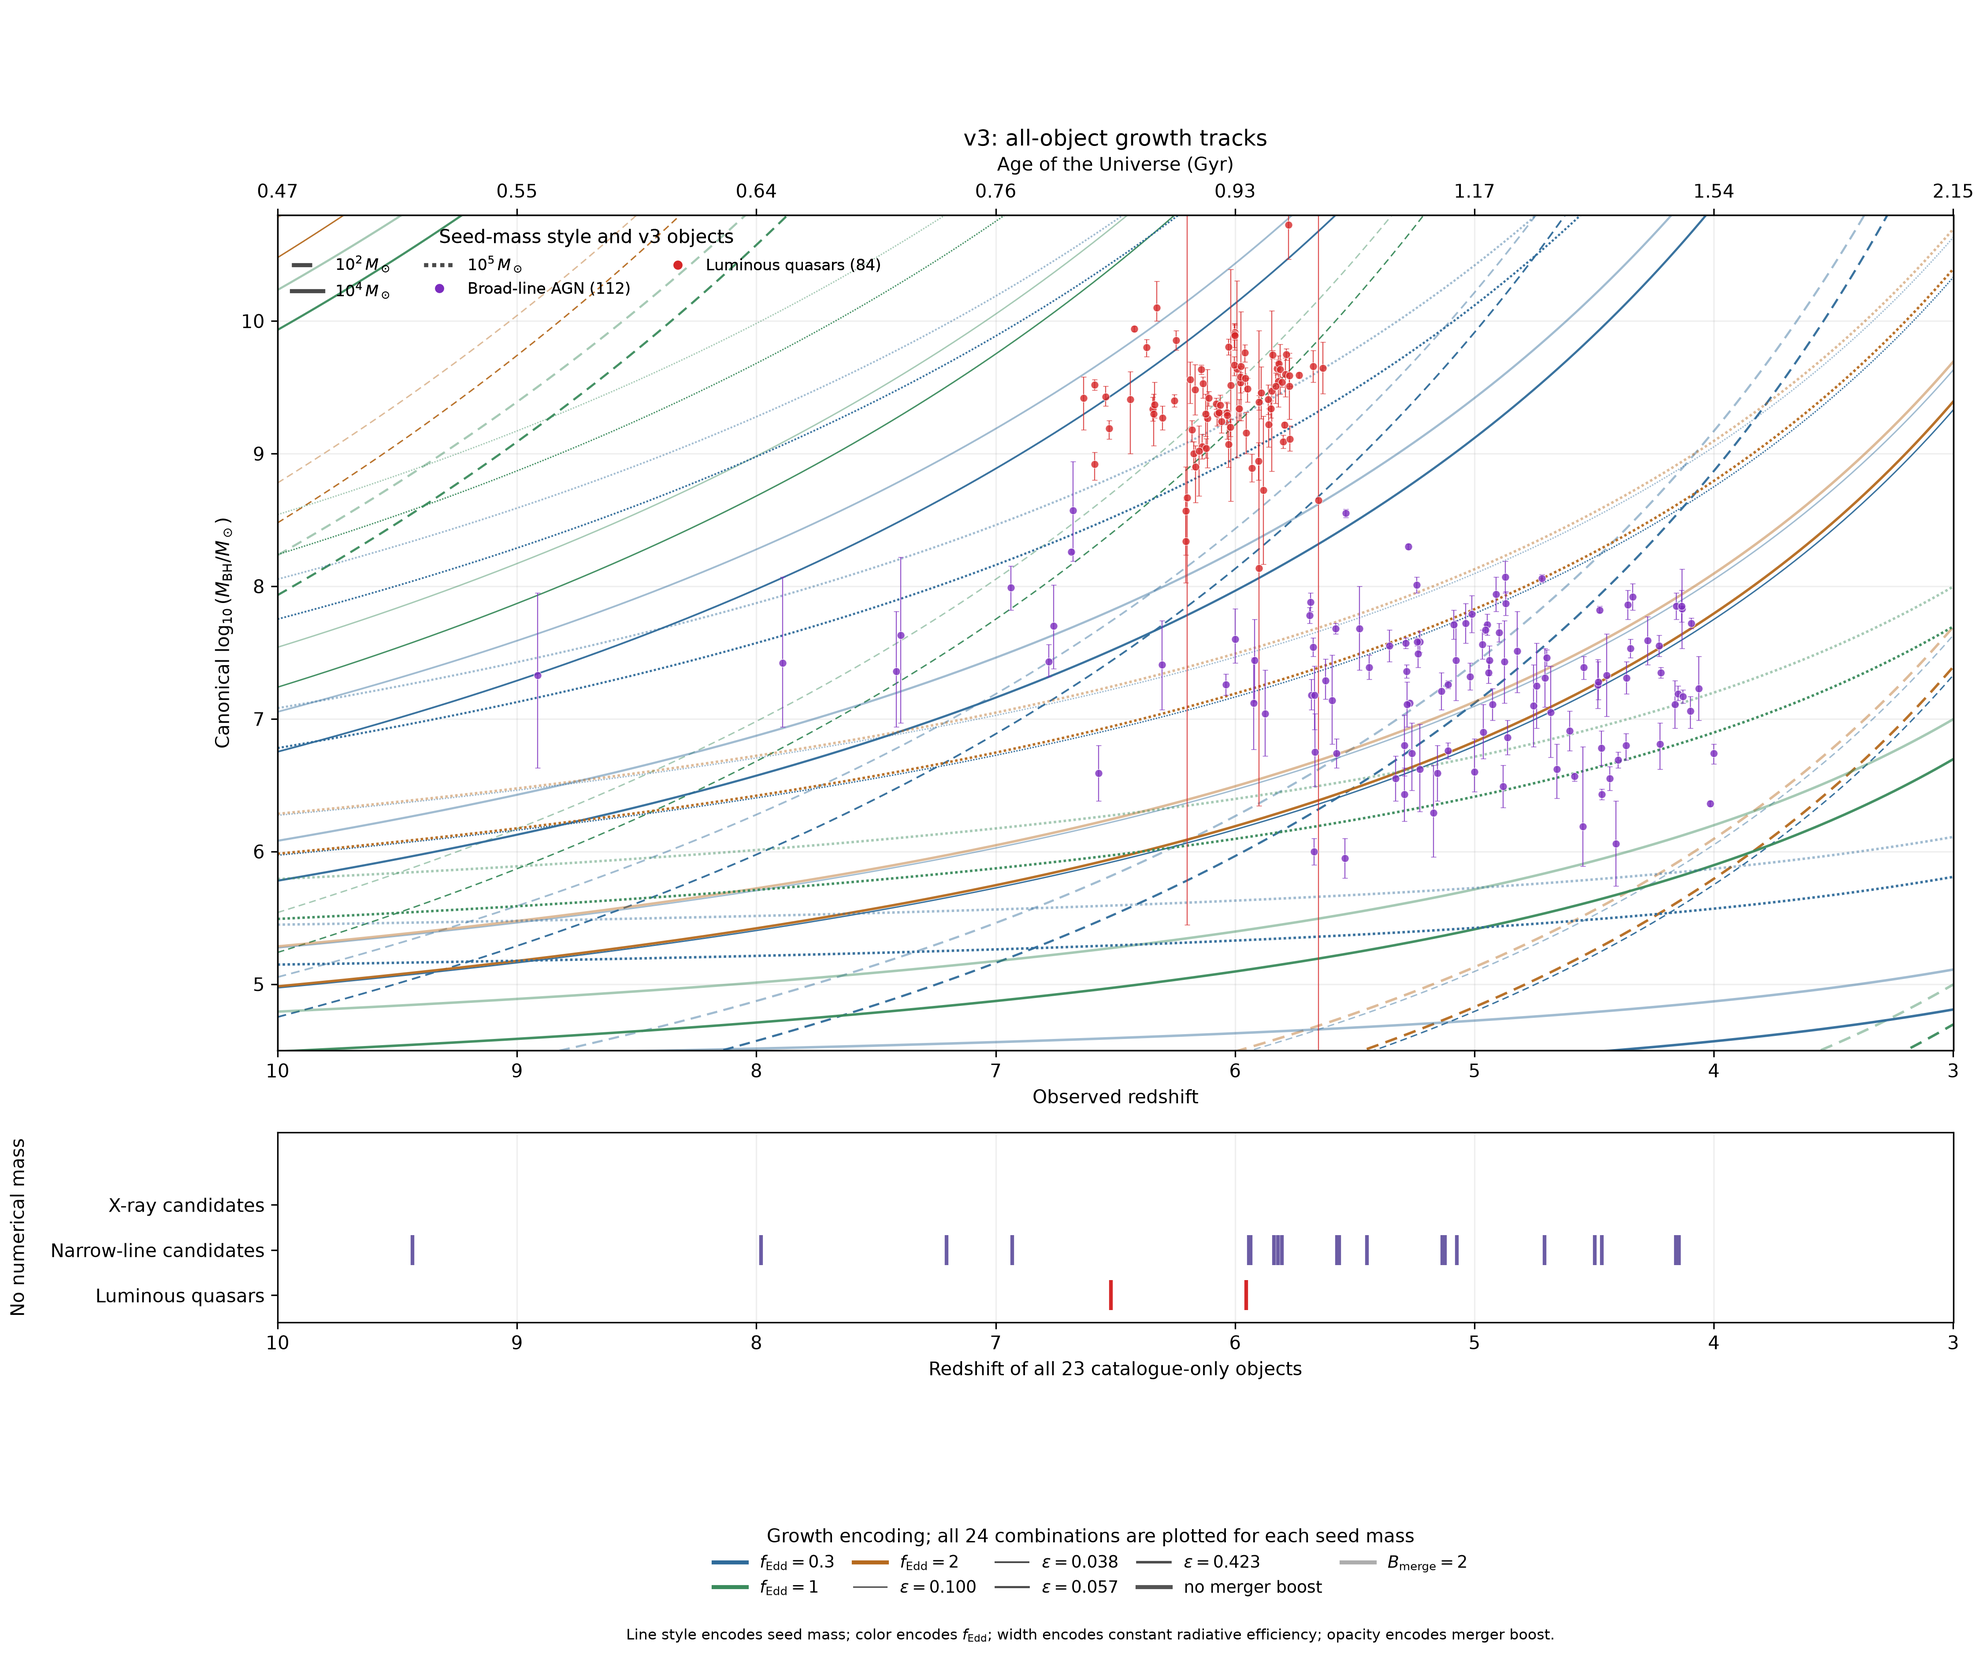
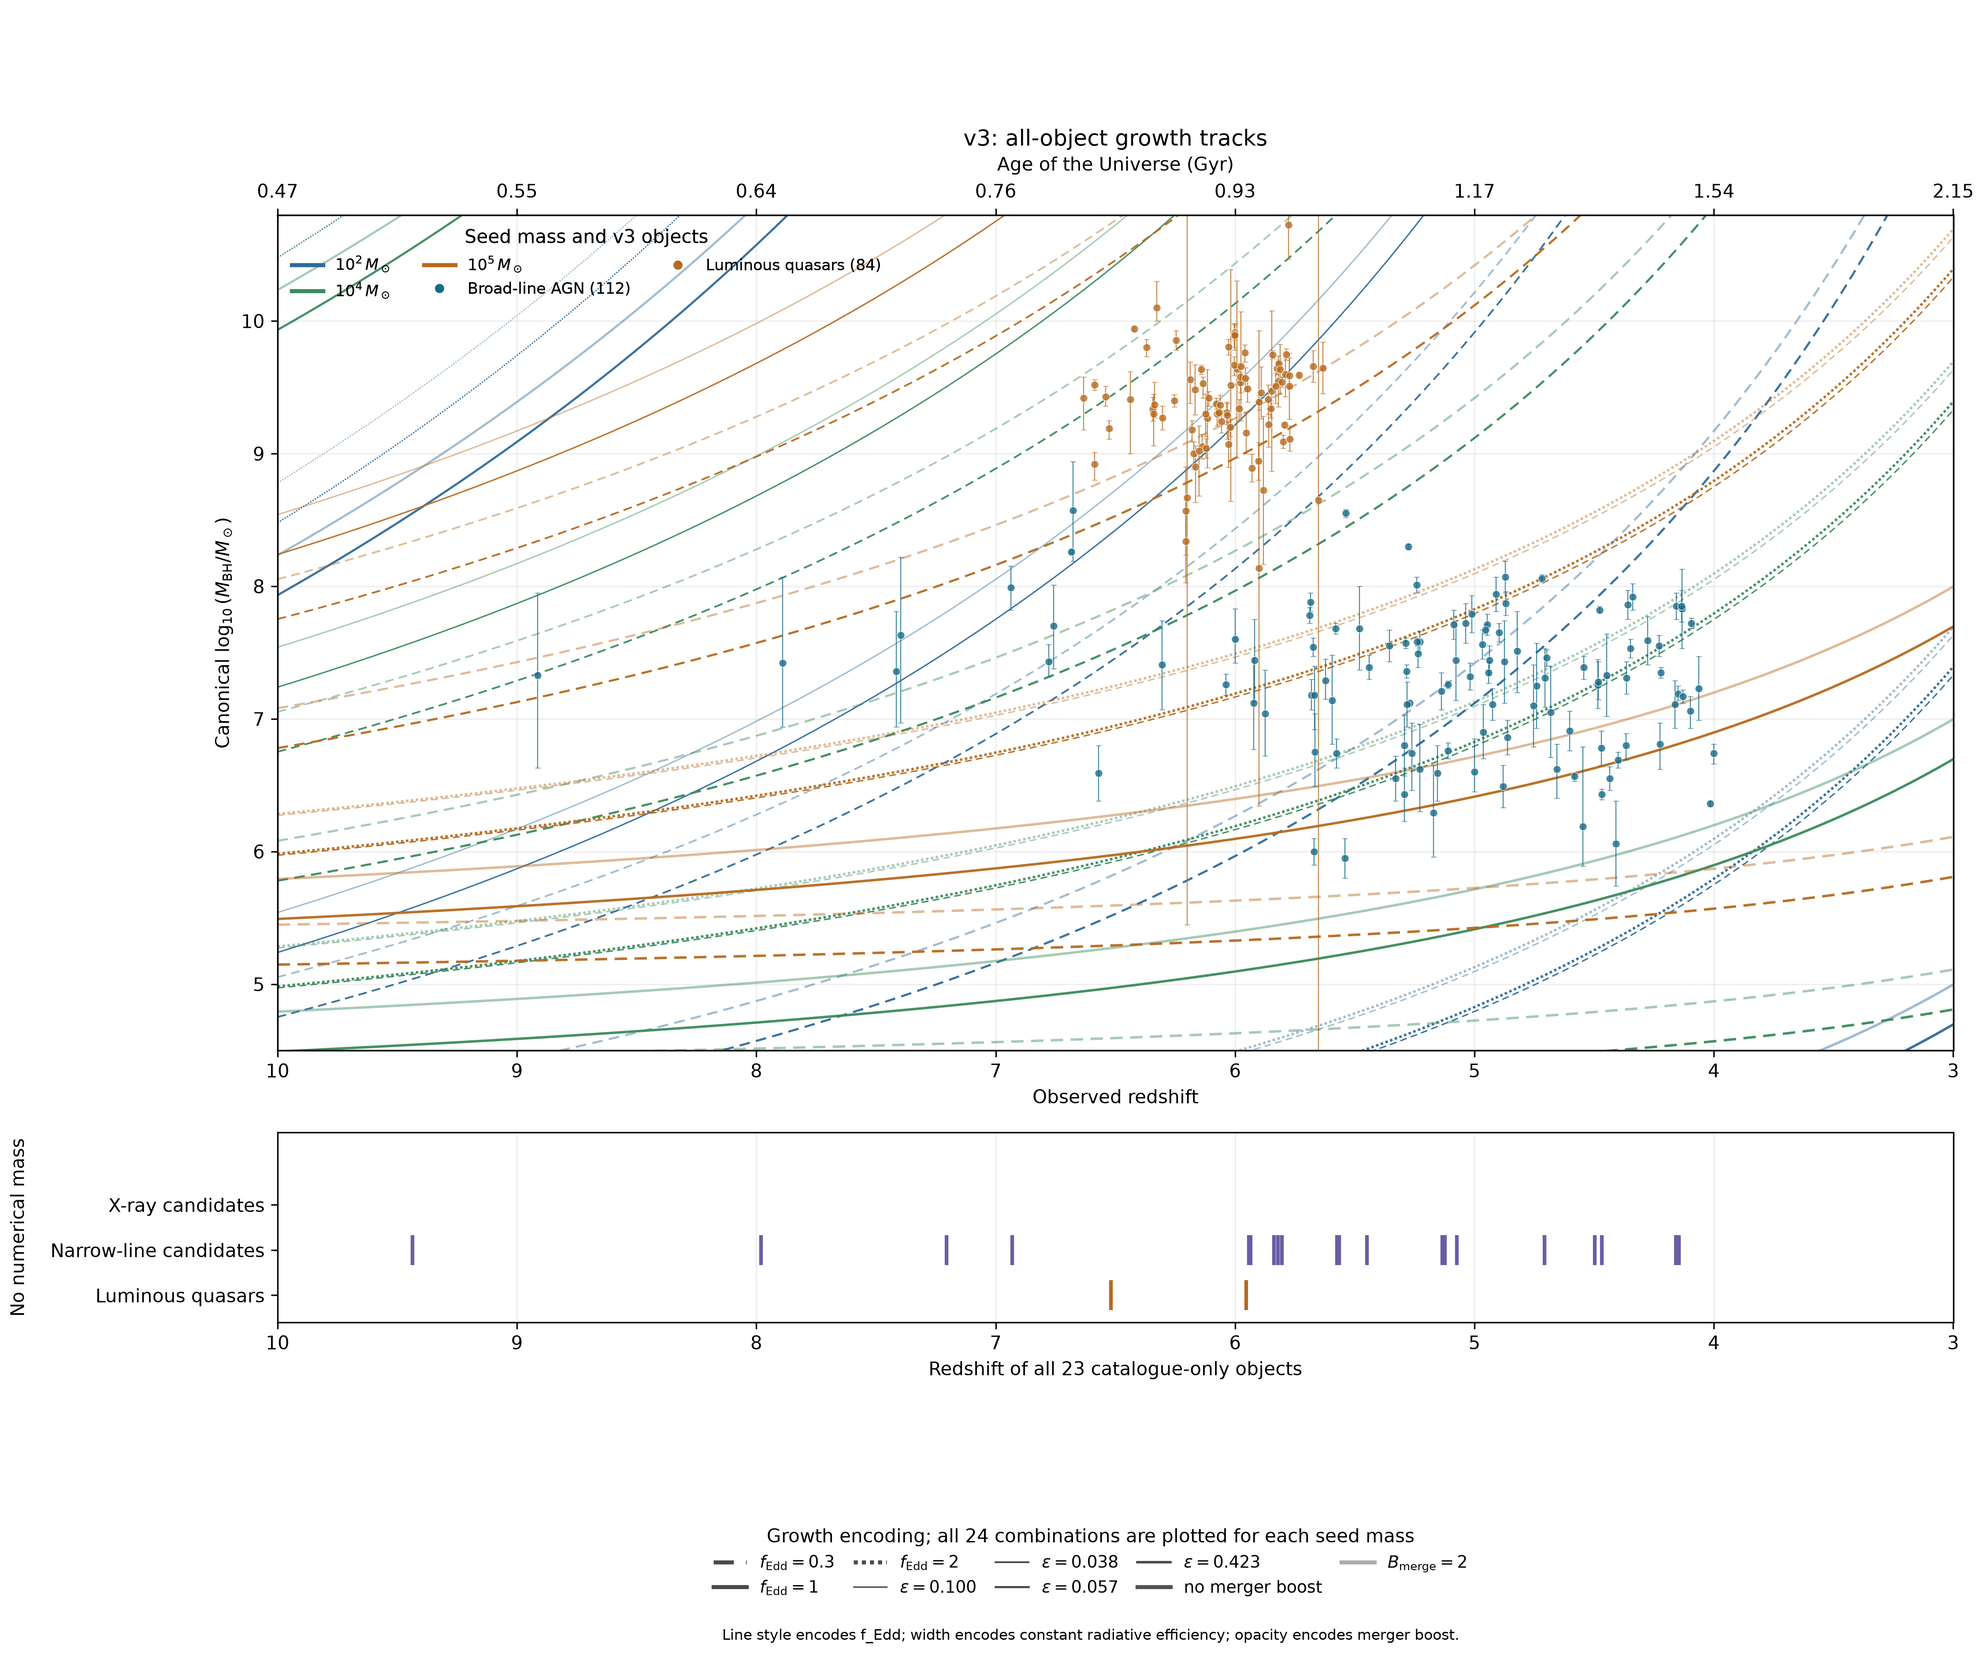
restore pre-contrast full-assumption tracks

diff --git a/src/internal/atlas.py b/src/internal/atlas.py
@@ -94,15 +94,15 @@ SEED_LABELS = {
     "pbh_origin_hypothesis": "PBH-origin hypothesis\n(assumed $10^2$–$10^6\\,M_\\odot$)",
 }
 
-FULL_TRACK_SEED_STYLES = (
-    (2.0, r"$10^2\,M_\odot$", (0, (5, 3))),
-    (4.0, r"$10^4\,M_\odot$", "-"),
-    (5.0, r"$10^5\,M_\odot$", (0, (1, 1))),
+FULL_TRACK_SEEDS = (
+    (2.0, r"$10^2\,M_\odot$", "#2F6B9A"),
+    (4.0, r"$10^4\,M_\odot$", "#3A8B5C"),
+    (5.0, r"$10^5\,M_\odot$", "#B66A1E"),
 )
-FULL_TRACK_FEDD_COLORS = (
-    (0.3, "#2F6B9A"),
-    (1.0, "#3A8B5C"),
-    (2.0, "#B66A1E"),
+FULL_TRACK_FEDD_STYLES = (
+    (0.3, (0, (5, 3))),
+    (1.0, "-"),
+    (2.0, (0, (1, 1))),
 )
 FULL_TRACK_EPSILON_CASES = (
     (0.1, r"$\epsilon=0.100$", 0.75),
@@ -115,8 +115,8 @@ FULL_TRACK_MERGER_CASES = (
     (2.0, r"$B_{\rm merge}=2$", 0.45),
 )
 FULL_TRACK_CURVE_COUNT = (
-    len(FULL_TRACK_SEED_STYLES)
-    * len(FULL_TRACK_FEDD_COLORS)
+    len(FULL_TRACK_SEEDS)
+    * len(FULL_TRACK_FEDD_STYLES)
     * len(FULL_TRACK_EPSILON_CASES)
     * len(FULL_TRACK_MERGER_CASES)
 )
@@ -290,8 +290,8 @@ def plot_full_assumption_growth_tracks(
     )
     fig.subplots_adjust(left=0.14, right=0.985, bottom=0.20, top=0.87, hspace=0.16)
 
-    for log_seed, _, linestyle in FULL_TRACK_SEED_STYLES:
-        for fedd, color in FULL_TRACK_FEDD_COLORS:
+    for log_seed, _, color in FULL_TRACK_SEEDS:
+        for fedd, linestyle in FULL_TRACK_FEDD_STYLES:
             for epsilon, _, linewidth in FULL_TRACK_EPSILON_CASES:
                 for boost, _, alpha in FULL_TRACK_MERGER_CASES:
                     ax.plot(
@@ -308,8 +308,8 @@ def plot_full_assumption_growth_tracks(
         ])
         ax.errorbar(
             group["redshift"], group["log_mbh_msun_std"], yerr=yerr, fmt="o",
-            ms=4.2, mfc=GROWTH_TRACK_COLORS[object_class], mec="white", mew=0.35,
-            ecolor=GROWTH_TRACK_COLORS[object_class], elinewidth=0.55, capsize=1.4, alpha=0.8,
+            ms=4.2, mfc=COLORS[object_class], mec="white", mew=0.35,
+            ecolor=COLORS[object_class], elinewidth=0.55, capsize=1.4, alpha=0.8,
         )
 
     title = f"{VERSION}: all-object growth tracks"
@@ -329,24 +329,24 @@ def plot_full_assumption_growth_tracks(
     age_axis.set_xticklabels([f"{age:.2f}" for age in cosmic_time_gyr(age_redshifts)])
     age_axis.set_xlabel("Age of the Universe (Gyr)", labelpad=7)
 
-    seed_handles = [Line2D([0], [0], color="#4A4A4A", lw=2.2, ls=linestyle, label=label)
-                    for _, label, linestyle in FULL_TRACK_SEED_STYLES]
+    seed_handles = [Line2D([0], [0], color=color, lw=2.2, label=label)
+                    for _, label, color in FULL_TRACK_SEEDS]
     class_handles = [
-        Line2D([0], [0], marker="o", color="none", markerfacecolor=GROWTH_TRACK_COLORS[key],
+        Line2D([0], [0], marker="o", color="none", markerfacecolor=COLORS[key],
                markeredgecolor="white", markersize=6,
                label=f"{LABELS[key]} ({len(group)})")
         for key, group in eligible.groupby("object_class")
     ]
     object_legend = ax.legend(
-        handles=seed_handles + class_handles, title="Seed-mass style and v3 objects",
+        handles=seed_handles + class_handles, title="Seed mass and v3 objects",
         loc="upper left", ncols=3, frameon=False, fontsize=8.5,
     )
     ax.add_artist(object_legend)
 
     encoding_handles = [
-        Line2D([0], [0], color=color, lw=2.2,
+        Line2D([0], [0], color="#4A4A4A", lw=2.2, ls=linestyle,
                label=rf"$f_{{\rm Edd}}={fedd:g}$")
-        for fedd, color in FULL_TRACK_FEDD_COLORS
+        for fedd, linestyle in FULL_TRACK_FEDD_STYLES
     ] + [
         Line2D([0], [0], color="#4A4A4A", lw=linewidth, label=label)
         for _, label, linewidth in FULL_TRACK_EPSILON_CASES
@@ -359,7 +359,7 @@ def plot_full_assumption_growth_tracks(
     status.set_ylim(-0.6, 3.6)
     for y, (object_class, group) in enumerate(unavailable.groupby("object_class", sort=True)):
         status.scatter(group["redshift"], np.full(len(group), y), marker="|", s=260,
-                       linewidths=2, color=GROWTH_TRACK_COLORS[object_class])
+                       linewidths=2, color=COLORS[object_class])
     classes = list(unavailable.groupby("object_class", sort=True).groups)
     status.set_yticks(range(len(classes)), [LABELS[key] for key in classes])
     status.set_ylabel("No numerical mass", labelpad=12)
@@ -374,8 +374,7 @@ def plot_full_assumption_growth_tracks(
     )
     fig.text(
         0.55, 0.008,
-        r"Line style encodes seed mass; color encodes $f_{\rm Edd}$; "
-        "width encodes constant radiative efficiency; "
+        "Line style encodes f_Edd; width encodes constant radiative efficiency; "
         "opacity encodes merger boost.",
         ha="center", fontsize=8,
     )

diff --git a/tests/test_scientific_claims.py b/tests/test_scientific_claims.py
@@ -10,9 +10,9 @@ import pandas as pd
 from src.internal.atlas import (
     FULL_TRACK_CURVE_COUNT,
     FULL_TRACK_EPSILON_CASES,
-    FULL_TRACK_FEDD_COLORS,
+    FULL_TRACK_FEDD_STYLES,
     FULL_TRACK_MERGER_CASES,
-    FULL_TRACK_SEED_STYLES,
+    FULL_TRACK_SEEDS,
     GROWTH_TRACK_AGE_TICKS,
     GROWTH_TRACK_COLORS,
     GROWTH_TRACK_REDSHIFT_LIMITS,
@@ -33,15 +33,12 @@ TABLES = ROOT / "results/v3/tables"
 
 class V3ScientificClaimTests(unittest.TestCase):
     def test_full_growth_track_assumption_grid_matches_historical_v1(self) -> None:
-        self.assertEqual(len(FULL_TRACK_SEED_STYLES), 3)
-        self.assertEqual([item[0] for item in FULL_TRACK_FEDD_COLORS], [0.3, 1.0, 2.0])
+        self.assertEqual(len(FULL_TRACK_SEEDS), 3)
+        self.assertEqual([item[0] for item in FULL_TRACK_FEDD_STYLES], [0.3, 1.0, 2.0])
+        self.assertEqual([item[2] for item in FULL_TRACK_SEEDS], ["#2F6B9A", "#3A8B5C", "#B66A1E"])
         self.assertEqual(
-            [item[2] for item in FULL_TRACK_SEED_STYLES],
+            [item[1] for item in FULL_TRACK_FEDD_STYLES],
             [(0, (5, 3)), "-", (0, (1, 1))],
-        )
-        self.assertEqual(
-            [item[1] for item in FULL_TRACK_FEDD_COLORS],
-            ["#2F6B9A", "#3A8B5C", "#B66A1E"],
         )
         self.assertEqual(len(FULL_TRACK_EPSILON_CASES), 4)
         self.assertEqual([item[0] for item in FULL_TRACK_MERGER_CASES], [1.0, 2.0])

diff --git a/docs/archive/project-history/highz_accretion_atlas_status.tex b/docs/archive/project-history/highz_accretion_atlas_status.tex
@@ -138,9 +138,10 @@ A separate
 \href{../../../results/v3/figures/v3_all_object_growth_tracks_full_assumptions.png}
 {comprehensive companion} preserves the historical v1 grid: three seed masses crossed with three
 $f_{\rm Edd}$ values, four constant efficiencies, and two merger boosts, for
-72 reference curves in total. Seed mass uses line style, $f_{\rm Edd}$ uses
-color, efficiency uses line width, and merger boost uses opacity. It is an
-assumption comparison rather than a fit.
+72 reference curves in total. Seed mass uses color, $f_{\rm Edd}$ uses line
+style, efficiency uses line width, and merger boost uses opacity; object points
+retain the companion's original blue/orange palette. It is an assumption
+comparison rather than a fit.
 An
 \href{../../../results/v3/figures/v3_all_object_growth_tracks_full_assumptions_uncertainty_filtered.png}
 {uncertainty-filtered counterpart} keeps those curves but excludes the four luminous quasars with a maximum

diff --git a/paper/highz_accretion_atlas_v3.tex b/paper/highz_accretion_atlas_v3.tex
@@ -127,8 +127,9 @@ A supplementary
 {full-assumption growth-track companion} preserves the historical v1 visual
 grid: three seed masses crossed with
 $\fedd=0.3,1,2$, four constant radiative efficiencies, and two merger boosts,
-for 72 reference curves in total. Seed mass is encoded by line style, $\fedd$
-by color, efficiency by line width, and merger boost by opacity. This denser view is an assumption comparison,
+for 72 reference curves in total. Seed mass is encoded by color, $\fedd$ by
+line style, efficiency by line width, and merger boost by opacity; the object
+points retain the companion's original blue/orange palette. This denser view is an assumption comparison,
 not a fit or a demographic model.
 
 An additional

diff --git a/docs/current/v3-atlas.md b/docs/current/v3-atlas.md
@@ -18,8 +18,8 @@ catalogue strata. These are the canonical v3 files.
 2. `v3_all_object_growth_tracks_full_assumptions.png` — the same v3 objects
    against all 72 historical v1 reference curves: three seed masses crossed
    with three $f_{Edd}$ values, four constant efficiencies, and two merger boosts.
-   Seed mass uses line style, $f_{Edd}$ uses color, efficiency uses line width,
-   and merger boost uses opacity.
+   Seed mass uses color, $f_{Edd}$ uses line style, efficiency uses line width,
+   and merger boost uses opacity, matching the pre-contrast companion design.
 3. `v3_all_object_growth_tracks_full_assumptions_uncertainty_filtered.png` —
    the same 72-curve view after excluding only the four luminous quasars whose
    maximum reported black-hole-mass uncertainty exceeds 0.7 dex. The excluded
@@ -36,9 +36,9 @@ because they are calculated from the same v3 catalogue.
 All combined growth-track figures use a common reversed observed-redshift axis
 from 10 to 3. Figure dimensions and subplot margins are unchanged, placing the
 observed catalogue points more centrally without changing any data or model.
-Within these figures only, broad-line AGN are purple and luminous quasars are
-red to maximize contrast; other repository figures retain their established
-class palette.
+In the overview growth-track figures, broad-line AGN are purple and luminous
+quasars are red to maximize contrast. The two full-assumption companions retain
+their earlier blue/orange object palette and historical curve encodings.
 
 ## Complete supplement figures
 

diff --git a/docs/archive/project-history/CONTRIBUTION_LEDGER.md b/docs/archive/project-history/CONTRIBUTION_LEDGER.md
@@ -1662,3 +1662,22 @@ For every future Codex contribution that changes repository files:
   verification, inventories, manifests, and rebuilt PDFs were run afterward.
 - **Status:** Complete and verified locally; included in the accompanying
   repository commit.
+
+### 2026-09-03 - Restore pre-contrast full-assumption growth tracks
+
+- **Objective:** Return the two v3 full-assumption growth-track companions to
+  their appearance immediately before the red/purple object-color request.
+- **Contribution:** Restored the historical full-assumption encoding: seed
+  masses are blue, green, and orange; $f_{Edd}$ uses dashed, solid, and dotted
+  line styles; radiative efficiency uses line width; and merger boost uses
+  opacity. Restored the companion object points and no-inference markers to the
+  established blue/orange class palette. Updated regression tests and current
+  documentation while leaving the ordinary overview growth tracks purple/red.
+- **Scientific/technical effect:** Visual restoration only. The 72 curves,
+  growth model, $z=10$--3 framing, 0.7-dex filter, data, axes, dimensions,
+  margins, and scientific results are unchanged.
+- **Validation:** Regenerated and visually inspected both full-assumption
+  figures, then ran repository tests, provenance and version verification,
+  manifest checks, and PDF rebuild/inspection.
+- **Status:** Complete and verified locally; included in the accompanying
+  repository commit.

diff --git a/docs/current/v3-claim-audit.md b/docs/current/v3-claim-audit.md
@@ -16,7 +16,7 @@
 | 438 per-object panels cover all 219 objects: 219 $f_{Edd}$-mass and 219 seed-redshift-mass panels | focused claim regression, v3 dataset manifest, and visual-coverage verifier | verified |
 | Full-assumption v3 growth-track figure contains the historical v1 grid of 72 curves | focused assumption-grid regression and figure-resolution verifier | verified |
 | Every combined growth-track figure uses the common observed-redshift range 10 to 3 without changing figure dimensions or margins | focused axis-range regression and generated figures | verified |
-| Growth-track object colors consistently encode broad-line AGN in purple and luminous quasars in red | focused palette regression and generated figures | verified |
+| Overview growth-track object colors encode broad-line AGN in purple and luminous quasars in red; full-assumption companions retain their pre-contrast palette | focused palette regression and generated figures | verified |
 | Uncertainty-filtered full-assumption view excludes exactly four luminous quasars above the declared 0.7 dex mass-error threshold | focused selection regression, `v3_growth_track_uncertainty_filter.csv`, and figure-resolution verifier | verified |
 
 Interpretive claims are deliberately bounded: ranks are navigation/descriptive,

diff --git a/results/README.md b/results/README.md
@@ -20,10 +20,11 @@ public repository contract; necessary assembly logic is isolated under
 Individual growth-track panels are intentionally omitted. A combined
 growth-track overview for each version remains under `figures/`. All combined
 growth-track figures use the same observed-redshift range from 10 down to 3,
-with their existing figure dimensions and plot margins retained. Their object
-encoding uses purple for broad-line AGN and red for luminous quasars; v3 also has
+with their existing figure dimensions and plot margins retained. The overview
+plots use purple for broad-line AGN and red for luminous quasars; v3 also has
 `v3_all_object_growth_tracks_full_assumptions.png`, which preserves the full
-historical v1 line grid as a separate companion figure. The additional
+historical v1 curve and object-color encodings as a separate companion figure.
+The additional
 `v3_all_object_growth_tracks_full_assumptions_uncertainty_filtered.png` keeps
 the same 72 curves but excludes the four luminous quasars with reported mass
 uncertainty above 0.7 dex. The exact selection is recorded in

diff --git a/README.md b/README.md
@@ -85,9 +85,9 @@ growth-eligible objects receive numerical panels; the other 23 receive explicit
 no-inference status panels. Growth tracks are retained only as combined
 catalogue-wide figures under `results/v3/figures/`; the full-assumption v3
 companion contains 72 curves spanning three seed masses, three $f_{Edd}$
-values, four efficiencies, and two merger boosts. Seed mass is encoded by line
-style and $f_{Edd}$ by color; efficiency remains encoded by line width and
-merger boost by opacity. Its uncertainty-filtered
+values, four efficiencies, and two merger boosts. Seed mass is encoded by
+color, $f_{Edd}$ by line style, efficiency by line width, and merger boost by
+opacity. Its uncertainty-filtered
 counterpart applies the explicit 0.7 dex cut only to luminous quasars, removing
 four extreme-error measurements while retaining every other numerical object
 and all 23 no-inference markers.
